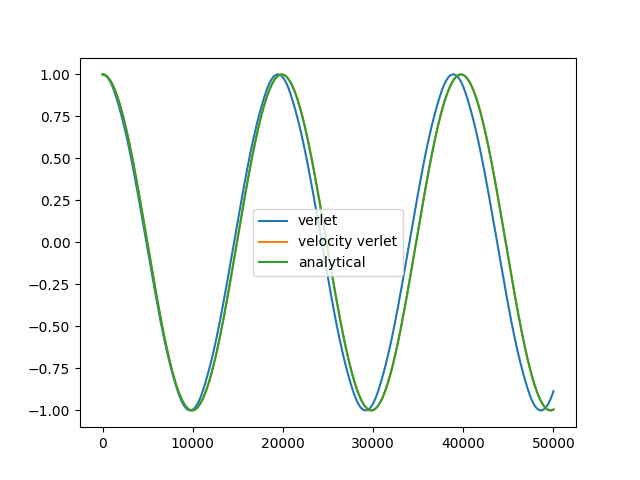
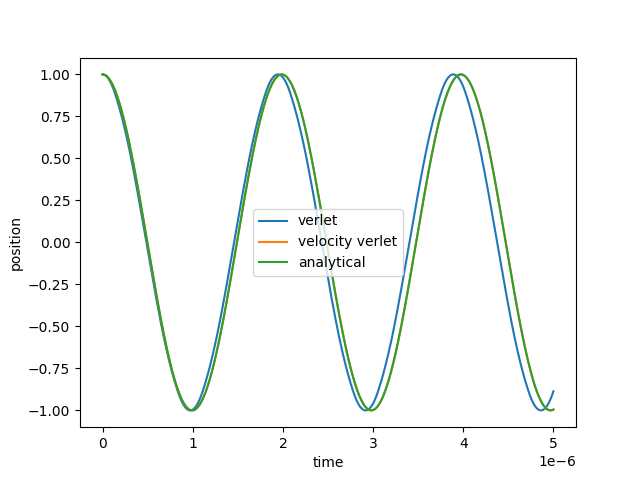
Refactor plotting code to use time as x-axis and add labels to axes

diff --git a/main.py b/main.py
@@ -38,14 +38,14 @@ def main():
   history_vv = np.array([r], dtype=np.float32)
   history_analytical = np.array([r_init], dtype=np.float32)
 
-  for _ in range(nsteps):
+  for _ in range(nsteps-1):
     r, r_prev = verlet(r, r_prev, dt, m, r0)
     # cast r, r_prev to float32 to save memory
     history_verlet = np.append(history_verlet, r)
 
   r = r_init
   v = v_init
-  for _ in range(nsteps):
+  for _ in range(nsteps-1):
     r, v = velocity_verlet(r, v, dt, m, r0)
     history_vv = np.append(history_vv, r)
 
@@ -55,21 +55,27 @@ def main():
   history_analytical = analytical(r_init, v_init, t, m)
 
   plt.figure()
-  plt.plot(history_verlet, label='verlet')
-  plt.plot(history_vv, label='velocity verlet')
-  plt.plot(history_analytical, label='analytical')
+  plt.plot(t, history_verlet, label='verlet')
+  plt.plot(t, history_vv, label='velocity verlet')
+  plt.plot(t, history_analytical, label='analytical')
+  plt.xlabel('time')
+  plt.ylabel('position')
   plt.legend()
   plt.savefig('all.png')
 
   plt.figure()
-  plt.plot(history_verlet, label='verlet')
-  plt.plot(history_vv, label='velocity verlet')
+  plt.plot(t, history_verlet, label='verlet')
+  plt.plot(t, history_vv, label='velocity verlet')
+  plt.xlabel('time')
+  plt.ylabel('position')
   plt.legend()
   plt.savefig('v-vv.png')
 
   plt.figure()
-  plt.plot(history_verlet, label='verlet')
-  plt.plot(history_analytical, label='analytical')
+  plt.plot(t, history_verlet, label='verlet')
+  plt.plot(t, history_analytical, label='analytical')
+  plt.xlabel('time')
+  plt.ylabel('position')
   plt.legend()
   plt.savefig('v-analytical.png')
 
